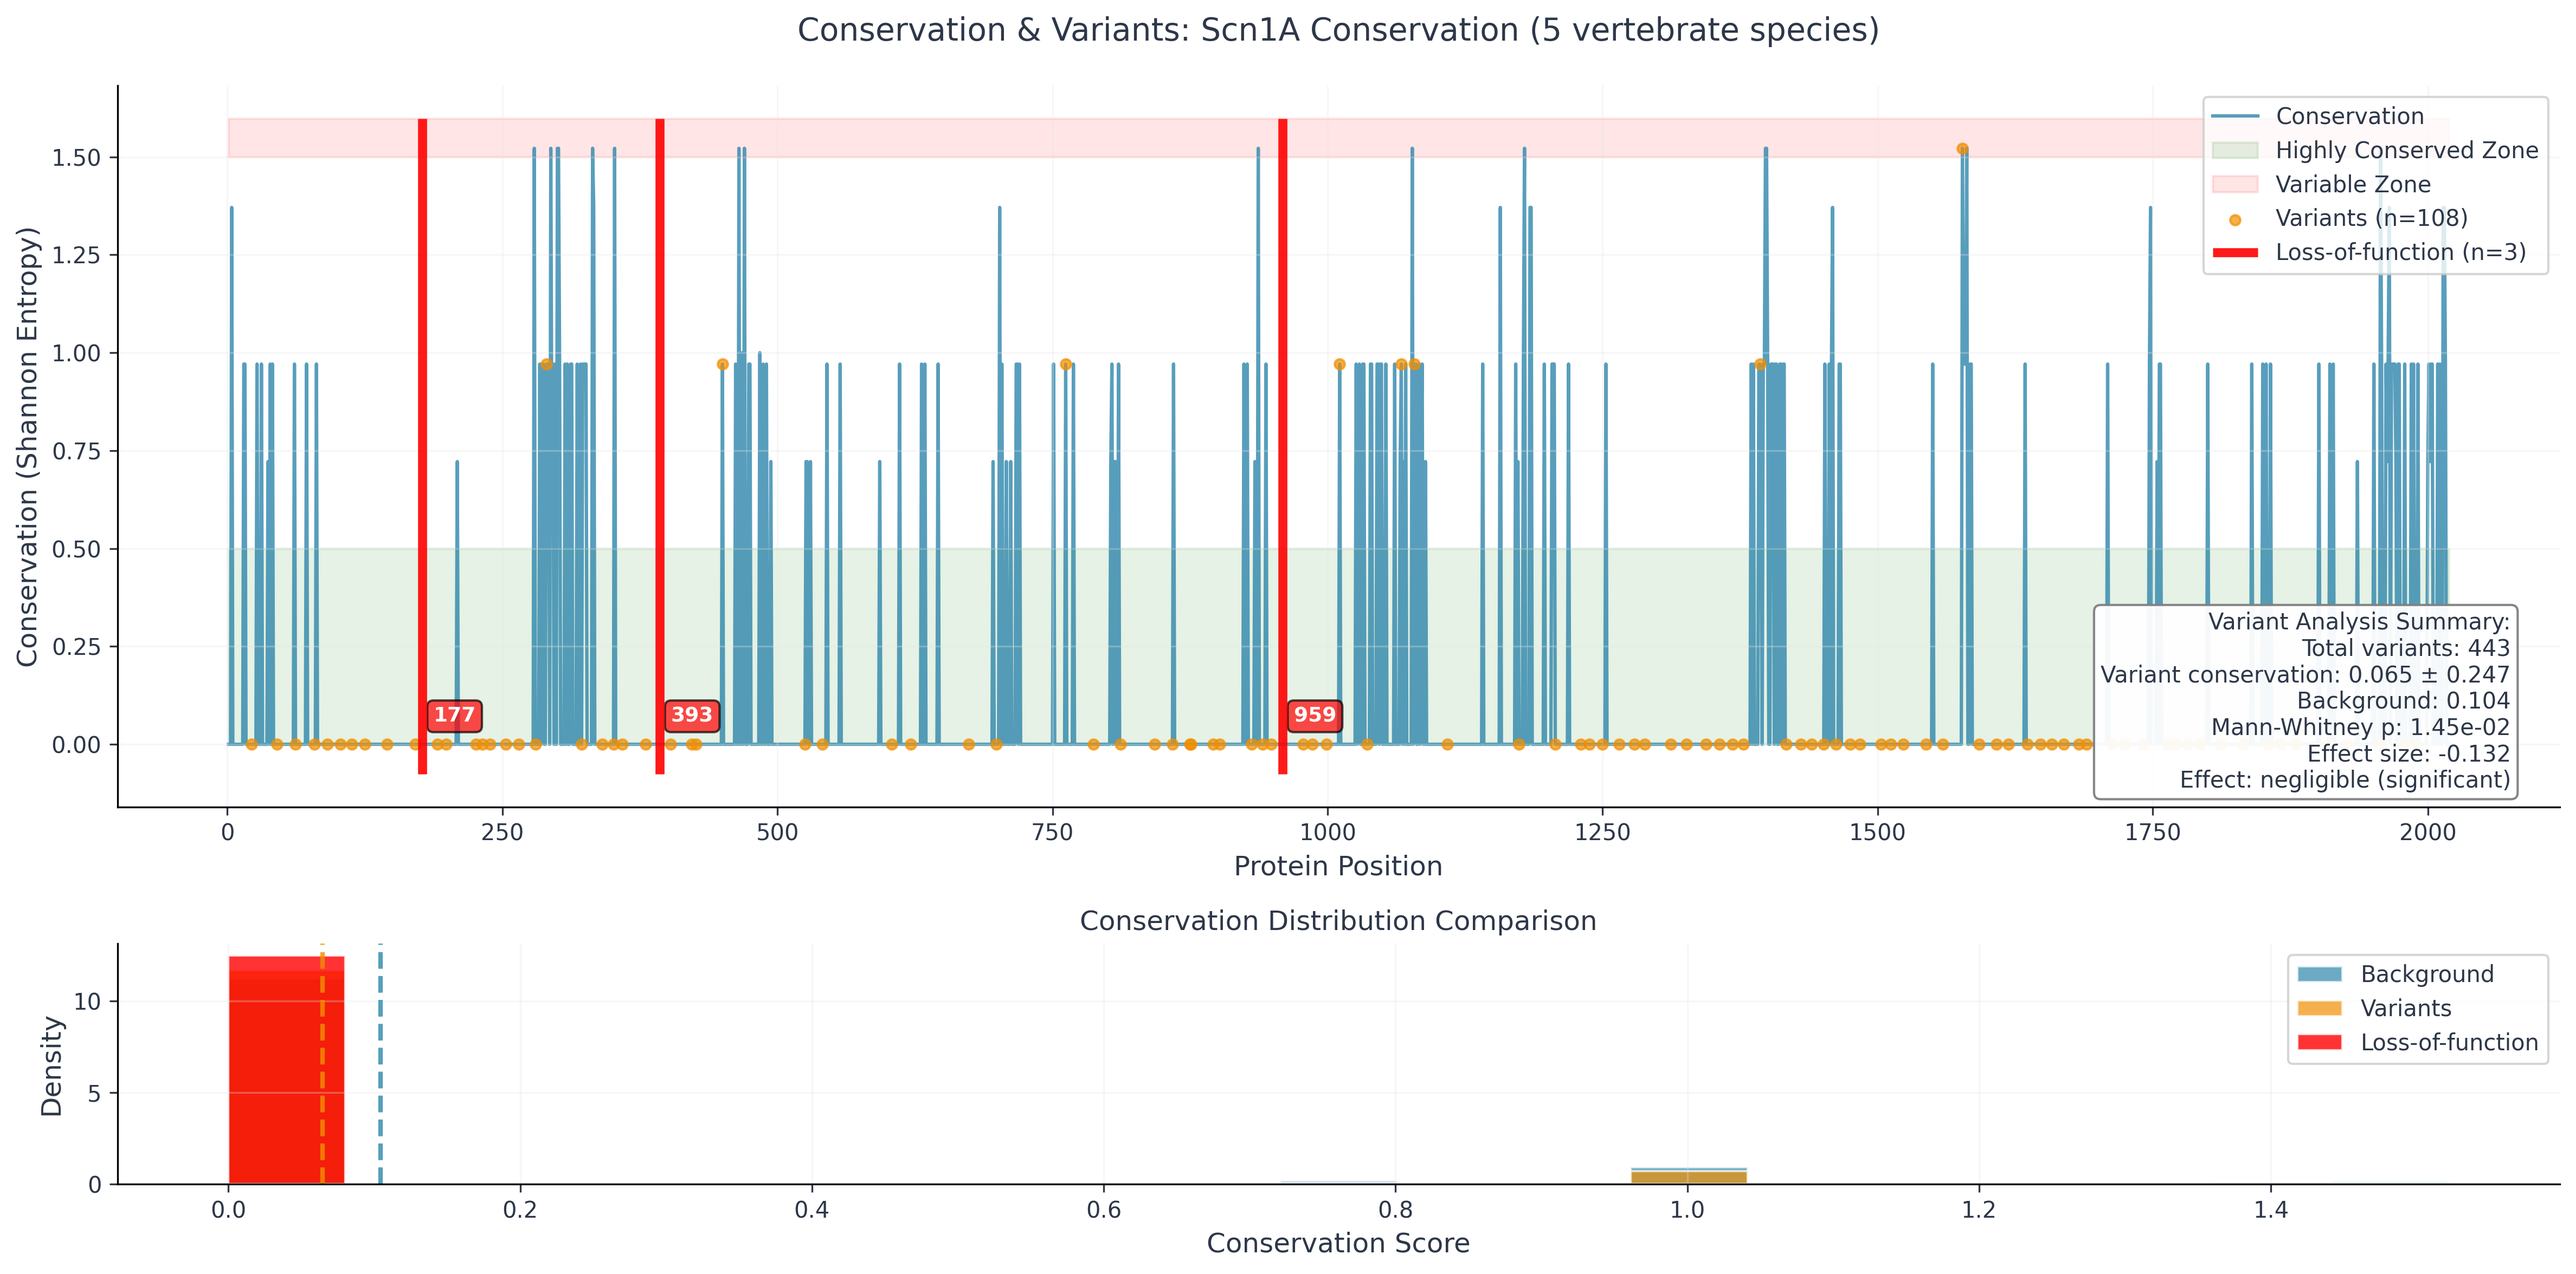
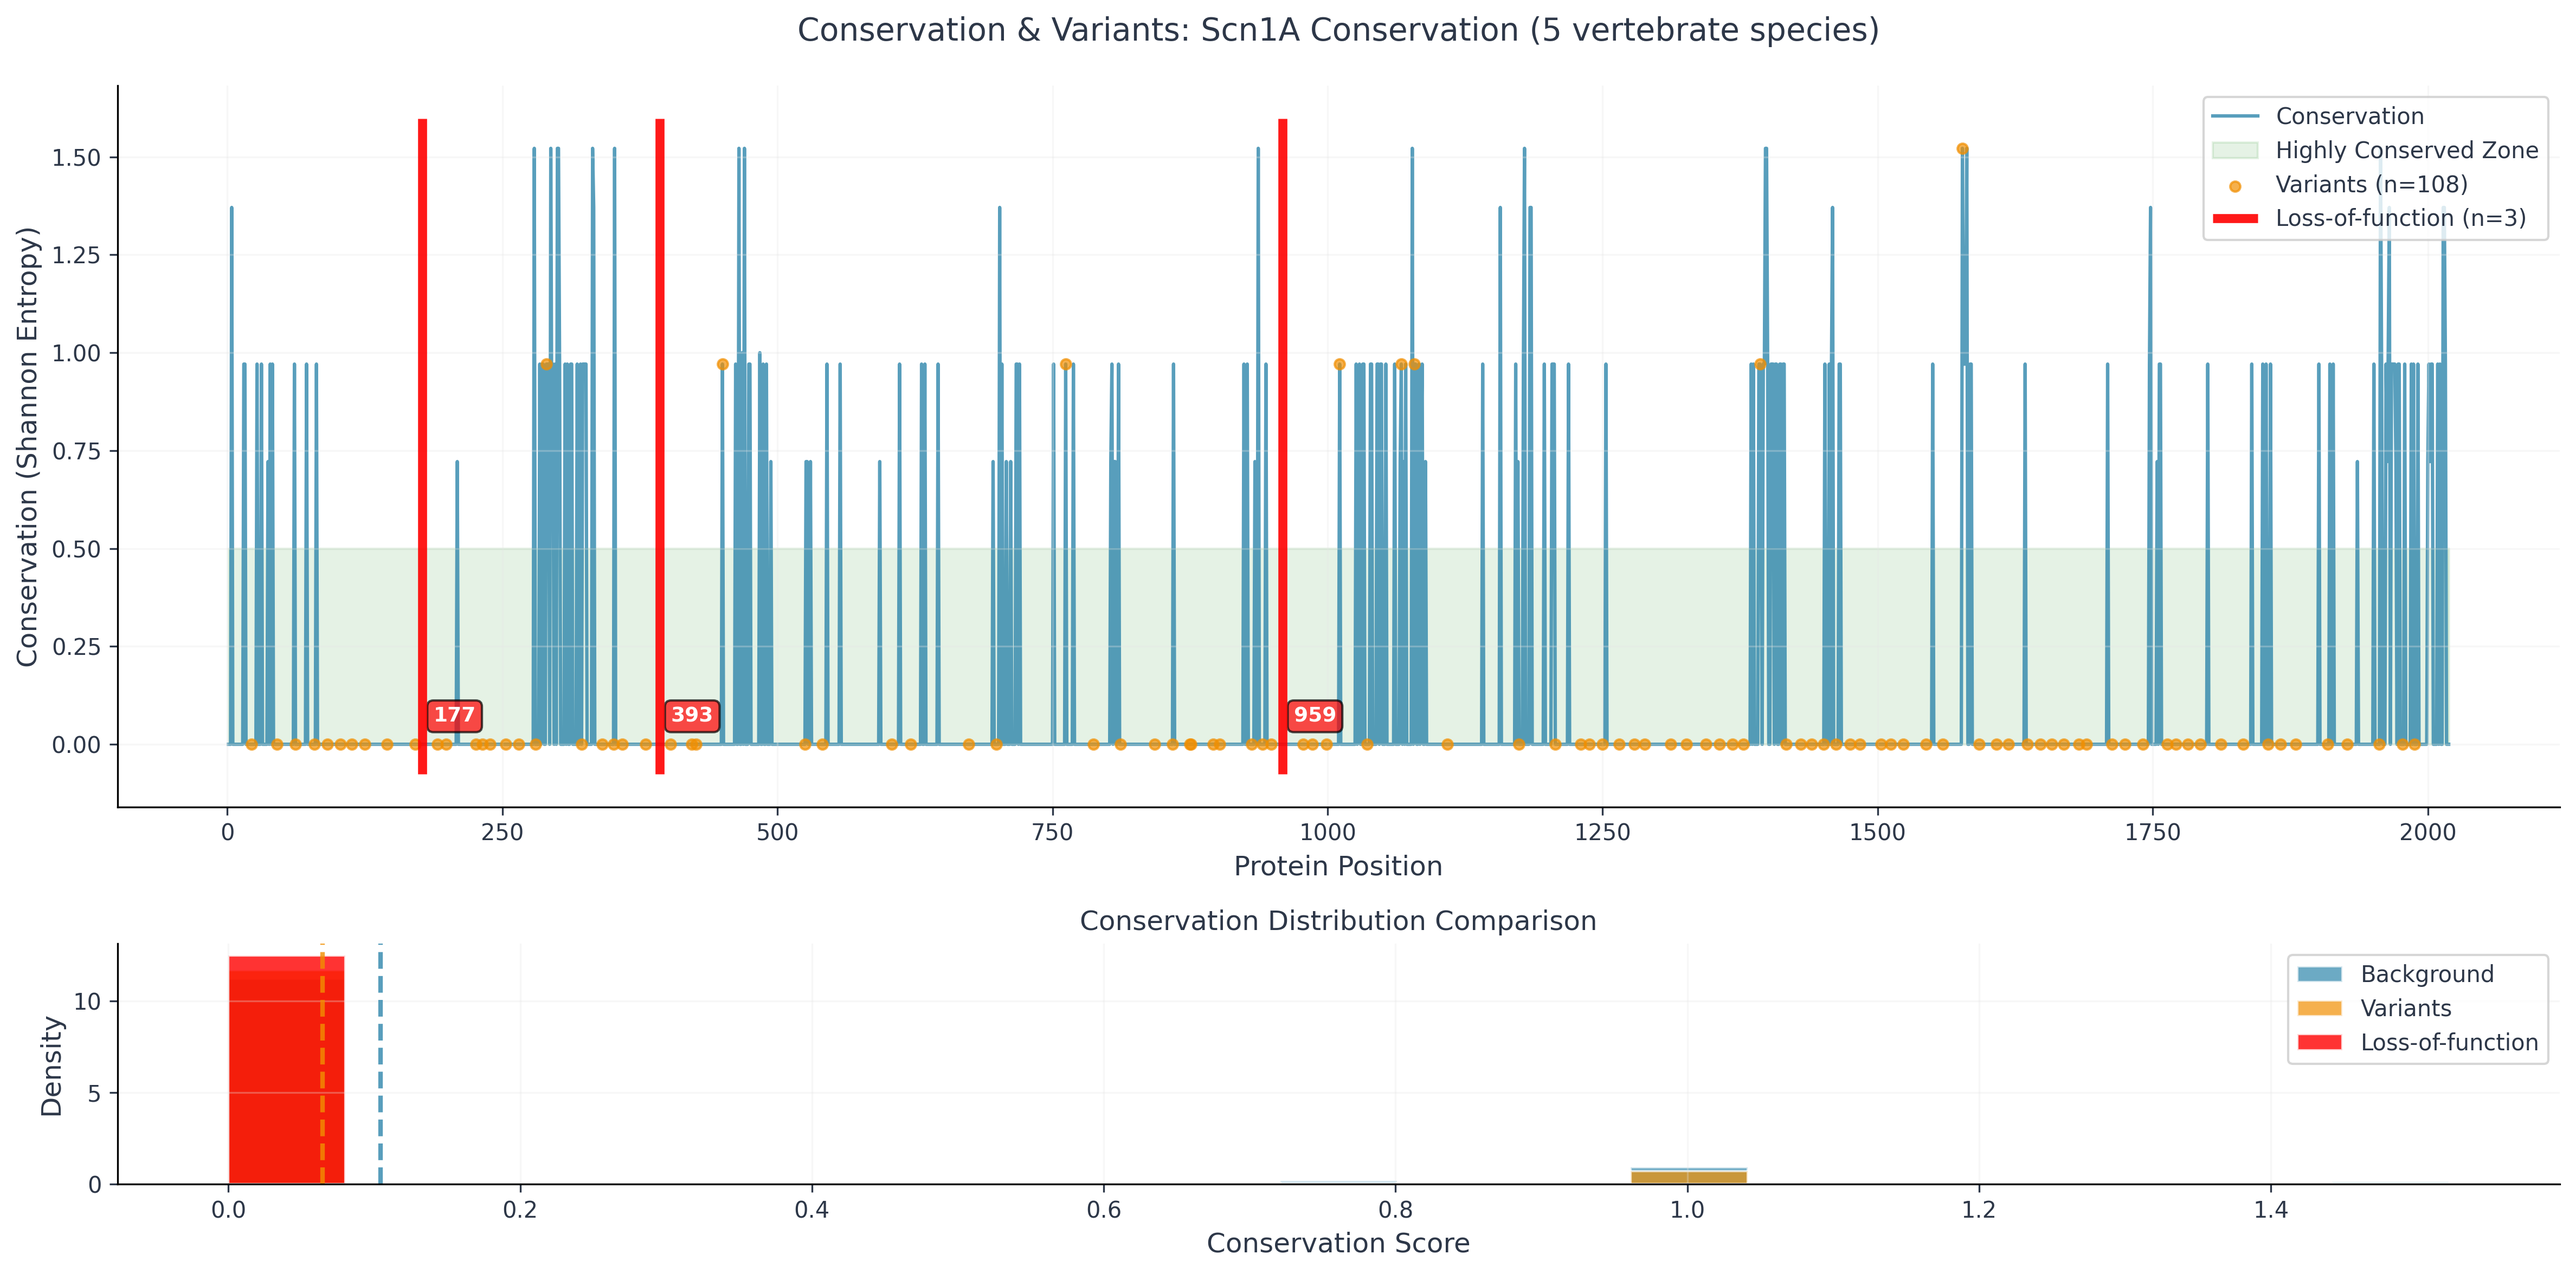
simplify plots

Changed region(s): [[0.0623, 0.0931, 0.9966, 0.2173], [0.8098, 0.4656, 0.9966, 0.6207]]

diff --git a/src/comparative_genomics_pipeline/visualization/scientific_plots.py b/src/comparative_genomics_pipeline/visualization/scientific_plots.py
@@ -537,8 +537,6 @@ class VariantPlotter(BasePlotter):
         y_min, y_max = ax.get_ylim()
         ax.fill_between(consv_df['Position'], 0, 0.5, alpha=0.1, color='green', 
                        label='Highly Conserved Zone', zorder=0)
-        ax.fill_between(consv_df['Position'], 1.5, y_max, alpha=0.1, color='red',
-                       label='Variable Zone', zorder=0)
         
         # Intelligent variant clustering and display
         variant_positions = vars_df['parsed_position'].values
@@ -600,9 +598,6 @@ class VariantPlotter(BasePlotter):
         ax.grid(True, alpha=self.theme.grid_alpha)
         ax.legend(loc='upper right', fontsize=self.theme.legend_fontsize)
         
-        # Add comprehensive statistics text box
-        if not stats_results.get('error'):
-            self._add_comprehensive_statistics_textbox(ax, stats_results, len(variant_positions))
     
     def _plot_variant_conservation_dist(self, ax: plt.Axes, consv_df: pd.DataFrame,
                                       vars_df: pd.DataFrame, stats_results: Dict[str, Any]) -> None:
